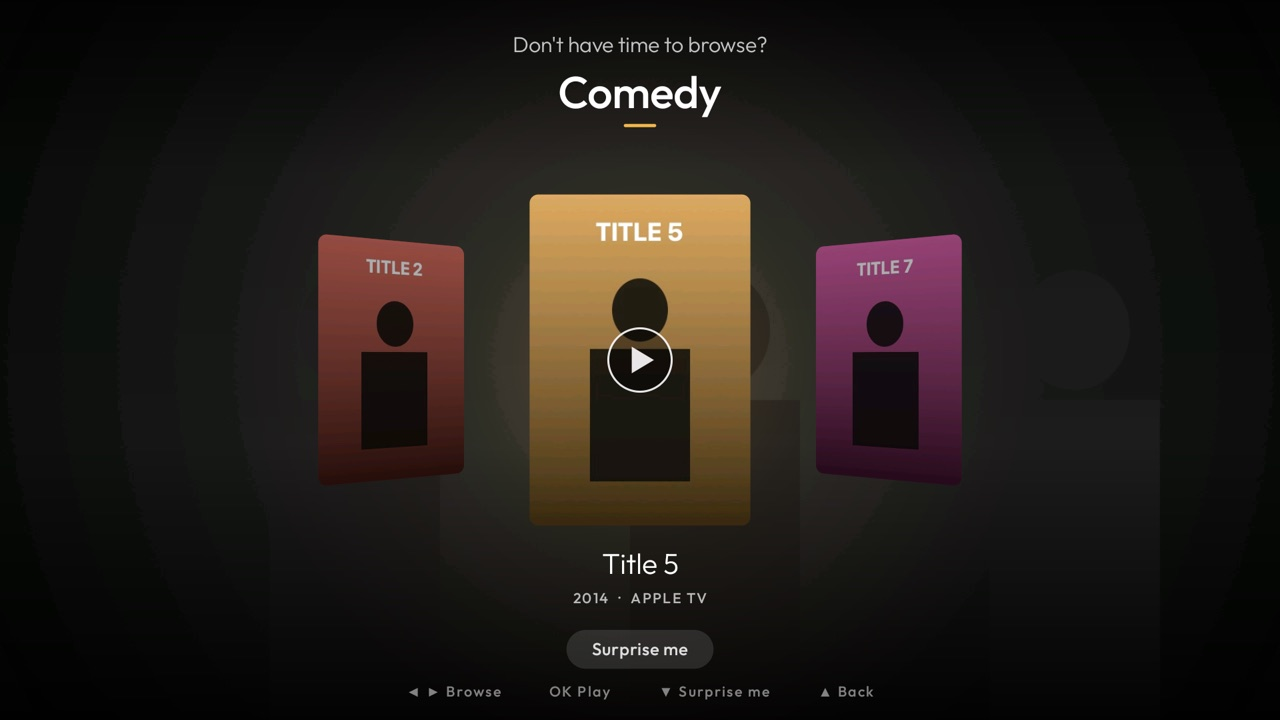
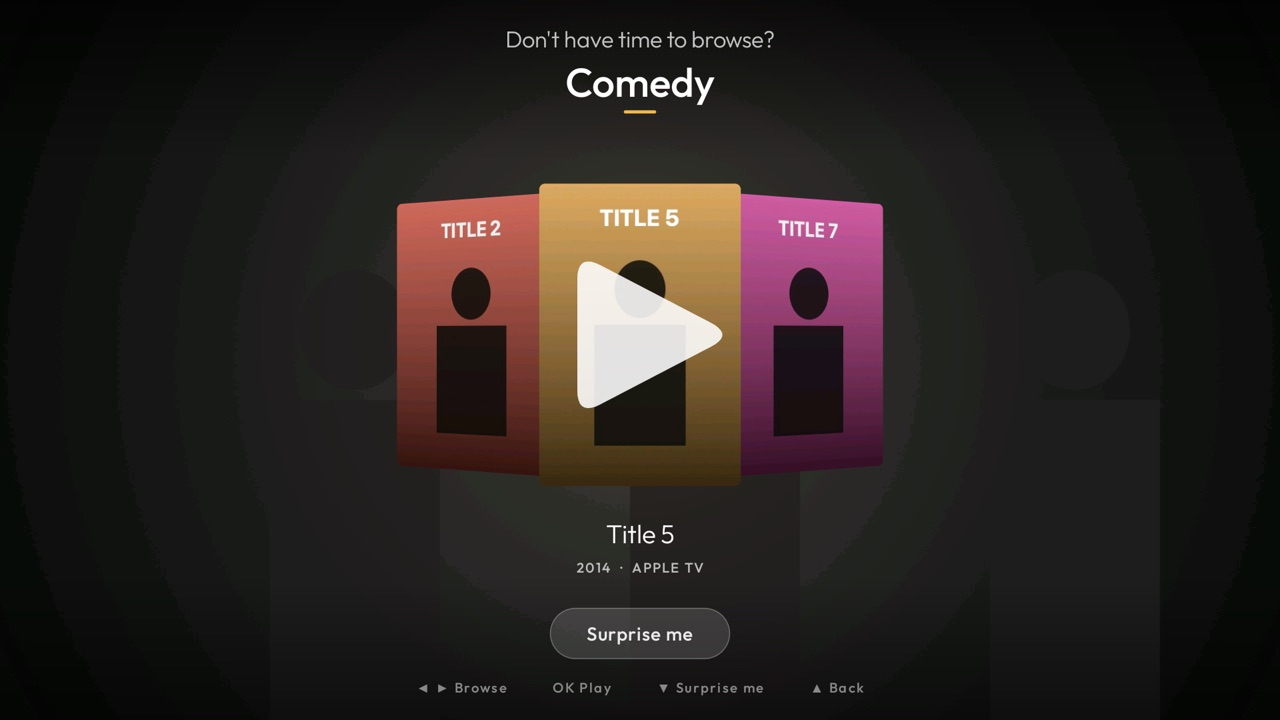
Launcher: mood_posters matches its reference picture: touching posters across the whole screen, turned with their outer edges further away, only the far ones dim, a large solid play triangle, a lighter shade over the backdrop and a bigger Surprise me; 11 posters decoded at most; switch screenshots r

diff --git a/launcher/app/src/main/java/com/gathin/tvhome/MoodShelfView.java b/launcher/app/src/main/java/com/gathin/tvhome/MoodShelfView.java
@@ -12,6 +12,7 @@ import android.graphics.BitmapShader;
 import android.graphics.Camera;
 import android.graphics.Canvas;
 import android.graphics.Color;
+import android.graphics.CornerPathEffect;
 import android.graphics.LinearGradient;
 import android.graphics.Matrix;
 import android.graphics.Paint;
@@ -41,9 +42,9 @@ import java.util.Map;
 import java.util.Set;
 
 /**
- * mood_posters: a mood's posters in a row, opened from its card on the mood deck. The centre poster is the biggest,
- * with a play icon; its neighbours are smaller and turned slightly towards it, and the ones further out fade at the
- * screen's edges. Behind, the centre title's darkened black-and-white backdrop. The row moves on slowly by itself until
+ * mood_posters: a mood's posters in a row across the whole screen, opened from its card on the mood deck. The centre
+ * poster is the biggest, with a play icon; the others touch, each smaller and darker than the last, turned so their
+ * outer edges are further away, and the outermost fade at the screen's edges. Behind, the centre title's darkened black-and-white backdrop. The row moves on slowly by itself until
  * a key is pressed. Left and Right browse, OK opens the centre title, Down goes to "Surprise me" (the deck's reel and
  * countdown), Up or Back go back to the cards. With mood_watched, holding OK on the centre poster offers "I've watched
  * it". Only the posters on screen and one more each way are decoded, and at most the two backdrops of a crossfade.
@@ -61,7 +62,9 @@ final class MoodShelfView extends View {
     }
 
     private static final long BACKDROP_MS = 450, RING_DELAY_MS = 350, FOCUS_MS = 180;
-    private static final float TILT_DEGREES = 24f;
+    private static final float TILT_DEGREES = 32f;
+    /** The play triangle's height against the centre poster's, as in the reference picture. */
+    private static final float PLAY_SHARE = 0.54f;
 
     private final List<MoodDeck.Title> titles;
     private final Listener listener;
@@ -76,7 +79,6 @@ final class MoodShelfView extends View {
     private final Paint backdropPaint = new Paint(Paint.FILTER_BITMAP_FLAG);
     private final Paint shadePaint = new Paint();
     private final Paint glowPaint = new Paint();
-    private final Paint iconPaint = new Paint(Paint.ANTI_ALIAS_FLAG);
     private final Paint buttonPaint = new Paint(Paint.ANTI_ALIAS_FLAG);
     private final Paint ringPaint = new Paint(Paint.ANTI_ALIAS_FLAG);
     private final Paint menuPaint = new Paint(Paint.ANTI_ALIAS_FLAG);
@@ -87,6 +89,7 @@ final class MoodShelfView extends View {
     private final TextPaint buttonText = new TextPaint(Paint.ANTI_ALIAS_FLAG);
     private final RectF rect = new RectF();
     private final Path triangle = new Path();
+    private final Paint playPaint = new Paint(Paint.ANTI_ALIAS_FLAG);
     private final Matrix shaderMatrix = new Matrix(), tilt = new Matrix();
     private final Camera camera = new Camera();
     private final Map<Bitmap, BitmapShader> posterShaders = new HashMap<>();
@@ -130,7 +133,7 @@ final class MoodShelfView extends View {
     private int glowColor;
 
     // Geometry, from the view's height (a 1080-line screen is the reference).
-    private float rowY, ph, pw, near, far, iconR;
+    private float rowY, ph, pw, playH;
 
     MoodShelfView(Context context, List<MoodDeck.Title> titles, String heading, Typeface lightFont, Typeface mediumFont,
                   long watchedHoldMs, Listener listener) {
@@ -156,7 +159,8 @@ final class MoodShelfView extends View {
         buttonText.setLetterSpacing(0.04f);
         placeholderPaint.setColor(0x1AFFFFFF);
         dimPaint.setColor(Color.BLACK);
-        iconPaint.setStrokeCap(Paint.Cap.ROUND);
+        playPaint.setStyle(Paint.Style.FILL);
+        playPaint.setColor(Color.WHITE);
         ringPaint.setStrokeCap(Paint.Cap.ROUND);
     }
 
@@ -547,20 +551,27 @@ final class MoodShelfView extends View {
     @Override
     protected void onSizeChanged(int w, int h, int oldw, int oldh) {
         super.onSizeChanged(w, h, oldw, oldh);
-        rowY = 0.50f * h;
-        ph = 0.46f * h;
+        rowY = 0.465f * h;
+        ph = 0.42f * h;
         pw = ph * 2f / 3f;
-        near = 0.34f * h;   // centre to a neighbour
-        far = 0.25f * h;    // each poster further out
-        iconR = 0.044f * h;
-        headingPaint.setTextSize(0.030f * h);
-        namePaint.setTextSize(0.062f * h);
-        titlePaint.setTextSize(0.040f * h);
-        smallPaint.setTextSize(0.020f * h);
-        buttonText.setTextSize(0.024f * h);
-        camera.setLocation(0, 0, -12f * density / 2f);
-        shadePaint.setShader(new LinearGradient(0, 0, 0, h, new int[]{0xCC000000, 0x33000000, 0x22000000, 0xE6000000},
-                new float[]{0f, 0.24f, 0.62f, 1f}, Shader.TileMode.CLAMP));
+        headingPaint.setTextSize(0.032f * h);
+        namePaint.setTextSize(0.056f * h);
+        titlePaint.setTextSize(0.036f * h);
+        smallPaint.setTextSize(0.019f * h);
+        buttonText.setTextSize(0.026f * h);
+        // Further from the screen than the default, so a turned poster's far edge is only a little shorter.
+        camera.setLocation(0, 0, -24f * h / 1080f);
+        shadePaint.setShader(new LinearGradient(0, 0, 0, h, new int[]{0xB3000000, 0x14000000, 0x14000000, 0x8C000000},
+                new float[]{0f, 0.22f, 0.80f, 1f}, Shader.TileMode.CLAMP));
+        // A solid rounded triangle, standing on its centre.
+        playH = PLAY_SHARE * ph;
+        float half = playH / 2f, wide = playH * 0.96f;
+        triangle.reset();
+        triangle.moveTo(-wide * 0.40f, -half);
+        triangle.lineTo(wide * 0.60f, 0f);
+        triangle.lineTo(-wide * 0.40f, half);
+        triangle.close();
+        playPaint.setPathEffect(new CornerPathEffect(0.16f * playH));
         glowPaint.setShader(null);
     }
 
@@ -576,23 +587,23 @@ final class MoodShelfView extends View {
         if (glowPaint.getShader() == null || glowColor != mood.color) {
             glowColor = mood.color;
             glowPaint.setShader(new RadialGradient(w / 2f, rowY, 0.55f * h,
-                    new int[]{withAlpha(mood.color, 0x30), withAlpha(mood.color, 0x0C), withAlpha(mood.color, 0)},
+                    new int[]{withAlpha(mood.color, 0x1C), withAlpha(mood.color, 0x08), withAlpha(mood.color, 0)},
                     new float[]{0f, 0.45f, 1f}, Shader.TileMode.CLAMP));
         }
         canvas.drawRect(0, 0, w, h, glowPaint);
 
         if (!heading.isEmpty()) {
             headingPaint.setAlpha(0xC0);
-            canvas.drawText(heading, (w - headingPaint.measureText(heading)) / 2f, 0.072f * h, headingPaint);
+            canvas.drawText(heading, (w - headingPaint.measureText(heading)) / 2f, 0.066f * h, headingPaint);
         }
         String name = TextUtils.ellipsize(mood.name, namePaint, w * 0.8f, TextUtils.TruncateAt.END).toString();
         namePaint.setAlpha(0xFF);
         float nw = namePaint.measureText(name);
-        canvas.drawText(name, (w - nw) / 2f, 0.150f * h, namePaint);
+        canvas.drawText(name, (w - nw) / 2f, 0.134f * h, namePaint);
         buttonPaint.setStyle(Paint.Style.FILL);
         buttonPaint.setColor(mood.color);
         float bar = 0.045f * h;
-        rect.set((w - bar) / 2f, 0.172f * h, (w + bar) / 2f, 0.172f * h + 0.0045f * h);
+        rect.set((w - bar) / 2f, 0.153f * h, (w + bar) / 2f, 0.153f * h + 0.0045f * h);
         canvas.drawRoundRect(rect, rect.height(), rect.height(), buttonPaint);
 
         drawRow(canvas, w, h);
@@ -624,14 +635,15 @@ final class MoodShelfView extends View {
 
     private void drawPoster(Canvas canvas, int item, float d, int w, int h) {
         float a = Math.abs(d);
-        float near1 = Math.min(1f, a), beyond = Math.max(0f, Math.min(1f, a - 1f));
-        float scale = 1f - 0.28f * near1 - 0.12f * beyond;
-        float x = w / 2f + Math.signum(d) * (near * near1 + far * Math.max(0f, a - 1f));
-        // Fading out past the second poster each side, at the screen's edges.
+        float near1 = Math.min(1f, a);
+        float scale = MoodShelf.scale(a);
+        float x = w / 2f + Math.signum(d) * MoodShelf.place(a) * h;
+        // Fading out past the last poster each side, at the screen's edges.
         float fade = Math.max(0f, Math.min(1f, MoodShelf.SIDE + 1f - a));
         int alpha = Math.round(255 * fade);
         if (alpha <= 0) return;
-        float degrees = -Math.signum(d) * TILT_DEGREES * near1;
+        // Turned so its outer edge is further away: the row curves back from the centre.
+        float degrees = Math.signum(d) * TILT_DEGREES * near1;
         canvas.save();
         canvas.translate(x, rowY);
         if (degrees != 0f) {
@@ -643,7 +655,7 @@ final class MoodShelfView extends View {
         }
         float hw = pw * scale / 2f, hh = ph * scale / 2f;
         rect.set(-hw, -hh, hw, hh);
-        float rr = 0.012f * h;
+        float rr = 0.008f * h;
         Bitmap b = posters.get(items.get(item));
         if (b == null) {
             placeholderPaint.setAlpha(Math.round(0x1A * fade));
@@ -661,45 +673,28 @@ final class MoodShelfView extends View {
             posterPaint.setAlpha(alpha);
             canvas.drawRoundRect(rect, rr, rr, posterPaint);
         }
-        // The neighbours sit a little darker; the centre one is untouched.
-        float dim = 0.32f * near1 + 0.22f * beyond;
+        // Each poster out is a little darker; the centre one is untouched.
+        float dim = MoodShelf.dim(a);
         if (dim > 0f) {
             dimPaint.setAlpha(Math.round(255 * dim * fade));
             canvas.drawRoundRect(rect, rr, rr, dimPaint);
         }
         // The play icon on the centre poster (fading as it moves away).
         float icon = Math.max(0f, 1f - a * 2f) * (1f - buttonFocus * 0.6f);
-        if (icon > 0f) drawPlay(canvas, icon, h);
+        if (icon > 0f) {
+            playPaint.setAlpha(Math.round(0xE0 * icon));
+            canvas.drawPath(triangle, playPaint);
+        }
         if (holdShown && a < 0.01f) drawRing(canvas);
         canvas.restore();
     }
 
-    private void drawPlay(Canvas canvas, float alpha, int h) {
-        iconPaint.setStyle(Paint.Style.FILL);
-        iconPaint.setColor(Color.BLACK);
-        iconPaint.setAlpha(Math.round(0x73 * alpha));
-        canvas.drawCircle(0, 0, iconR, iconPaint);
-        iconPaint.setStyle(Paint.Style.STROKE);
-        iconPaint.setStrokeWidth(Math.max(2f, 0.0028f * h));
-        iconPaint.setColor(Color.WHITE);
-        iconPaint.setAlpha(Math.round(0xE6 * alpha));
-        canvas.drawCircle(0, 0, iconR, iconPaint);
-        float t = iconR * 0.42f;
-        triangle.reset();
-        triangle.moveTo(-t * 0.62f, -t);
-        triangle.lineTo(t * 1.05f, 0);
-        triangle.lineTo(-t * 0.62f, t);
-        triangle.close();
-        iconPaint.setStyle(Paint.Style.FILL);
-        canvas.drawPath(triangle, iconPaint);
-    }
-
     /** The ring around the play icon while OK is held. */
     private void drawRing(Canvas canvas) {
-        float r = iconR + 9 * density, stroke = 5 * density;
+        float r = playH * 0.66f, stroke = 6 * density;
         ringPaint.setStyle(Paint.Style.STROKE);
         ringPaint.setStrokeWidth(stroke);
-        ringPaint.setColor(0x4DFFFFFF);
+        ringPaint.setColor(0x8C000000);
         canvas.drawCircle(0, 0, r, ringPaint);
         ringPaint.setColor(Color.WHITE);
         rect.set(-r, -r, r, r);
@@ -714,25 +709,29 @@ final class MoodShelfView extends View {
             int a = Math.round(255 * settle);
             String title = TextUtils.ellipsize(t.title, titlePaint, w * 0.7f, TextUtils.TruncateAt.END).toString();
             titlePaint.setAlpha(a);
-            canvas.drawText(title, (w - titlePaint.measureText(title)) / 2f, 0.797f * h, titlePaint);
+            canvas.drawText(title, (w - titlePaint.measureText(title)) / 2f, 0.755f * h, titlePaint);
             String meta = t.year.isEmpty() ? t.appName.toUpperCase(Locale.ROOT)
                     : t.appName.isEmpty() ? t.year : t.year + "  ·  " + t.appName.toUpperCase(Locale.ROOT);
             smallPaint.setAlpha(Math.round(a * 0.7f));
-            canvas.drawText(meta, (w - smallPaint.measureText(meta)) / 2f, 0.838f * h, smallPaint);
+            canvas.drawText(meta, (w - smallPaint.measureText(meta)) / 2f, 0.795f * h, smallPaint);
         }
         // "Surprise me": an outline at rest, white when Down moved the focus to it.
         String label = getResources().getString(R.string.shelf_surprise);
-        float tw = buttonText.measureText(label), bh = 0.054f * h, bw = tw + 0.07f * h, by = 0.902f * h;
+        float tw = buttonText.measureText(label), bh = 0.070f * h, bw = tw + 0.10f * h, by = 0.880f * h;
         rect.set((w - bw) / 2f, by - bh / 2f, (w + bw) / 2f, by + bh / 2f);
         buttonPaint.setStyle(Paint.Style.FILL);
         buttonPaint.setColor(Color.WHITE);
-        buttonPaint.setAlpha(Math.round(0x1F + (0xFF - 0x1F) * buttonFocus));
+        buttonPaint.setAlpha(Math.round(0x24 + (0xFF - 0x24) * buttonFocus));
         canvas.drawRoundRect(rect, bh / 2f, bh / 2f, buttonPaint);
-        buttonText.setColor((int) argb.evaluate(buttonFocus, 0xD9FFFFFF, 0xFF0C0C0E));
+        buttonPaint.setStyle(Paint.Style.STROKE);
+        buttonPaint.setStrokeWidth(Math.max(1f, 0.0014f * h));
+        buttonPaint.setAlpha(0x4D);
+        canvas.drawRoundRect(rect, bh / 2f, bh / 2f, buttonPaint);
+        buttonText.setColor((int) argb.evaluate(buttonFocus, 0xE6FFFFFF, 0xFF0C0C0E));
         canvas.drawText(label, (w - tw) / 2f, by + buttonText.getTextSize() * 0.36f, buttonText);
         String keys = getResources().getString(onButton ? R.string.shelf_keys_button : R.string.shelf_keys);
         smallPaint.setAlpha(0x80);
-        canvas.drawText(keys, (w - smallPaint.measureText(keys)) / 2f, 0.968f * h, smallPaint);
+        canvas.drawText(keys, (w - smallPaint.measureText(keys)) / 2f, 0.962f * h, smallPaint);
     }
 
     /** "I've watched it" over "Cancel", in a small dark panel on the centre poster; the chosen line is white. */

diff --git a/launcher/app/src/main/java/com/gathin/tvhome/MoodShelf.java b/launcher/app/src/main/java/com/gathin/tvhome/MoodShelf.java
@@ -9,14 +9,22 @@ import java.util.Set;
  * it can be tested without a TV.
  */
 final class MoodShelf {
-    /** Posters drawn on each side of the centre one (the outer ones partly off screen). */
-    static final int SIDE = 2;
+    /** Posters drawn on each side of the centre one: the row fills the screen, the outer ones at its edges. */
+    static final int SIDE = 4;
     /** Kept decoded beyond those: the next one each way, so a move never shows an empty frame. */
     static final int AHEAD = 1;
     /** From this many posters the row goes round (fewer would show the same poster twice on screen). */
     static final int ROUND_FROM = 2 * SIDE + 2;
     /** Moving on by itself: a rest, then a slow glide to the next poster. */
     static final long REST_MS = 2600, GLIDE_MS = 1100, MOVE_MS = 320;
+    /**
+     * Where a poster sits and how it looks by how far it is from the centre (0 the centre, 1 its neighbour, ...), as in
+     * the reference picture: the posters touch, each drawn under the one nearer the centre. Across, in shares of the
+     * screen's height from its middle; size against the centre poster; how much darker it is.
+     */
+    private static final float[] PLACE = {0f, 0.235f, 0.425f, 0.60f, 0.76f, 0.905f};
+    private static final float[] SCALE = {1f, 0.90f, 0.78f, 0.70f, 0.64f, 0.60f};
+    private static final float[] DIM = {0f, 0.06f, 0.12f, 0.26f, 0.42f, 0.60f};
 
     private MoodShelf() {}
 
@@ -52,6 +60,25 @@ final class MoodShelf {
             while (d < -count / 2f) d += count;
         }
         return d;
+    }
+
+    static float place(float distance) {
+        return along(PLACE, distance);
+    }
+
+    static float scale(float distance) {
+        return along(SCALE, distance);
+    }
+
+    static float dim(float distance) {
+        return along(DIM, distance);
+    }
+
+    /** The table's value at a distance between its steps; past its end, its last value. */
+    private static float along(float[] table, float distance) {
+        float at = Math.max(0f, Math.min(table.length - 1f, distance));
+        int i = Math.min(table.length - 2, (int) at);
+        return table[i] + (table[i + 1] - table[i]) * (at - i);
     }
 
     /** The posters to hold decoded around the centre: those on screen and one more each way. */

diff --git a/launcher/app/src/test/java/com/gathin/tvhome/MoodShelfTest.java b/launcher/app/src/test/java/com/gathin/tvhome/MoodShelfTest.java
@@ -44,10 +44,26 @@ public class MoodShelfTest {
     @Test
     public void onlyThePostersOnScreenAndOneMoreEachWayAreKept() {
         Set<Integer> want = MoodShelf.wanted(0, 20);
-        assertEquals(new HashSet<>(Arrays.asList(0, 1, 2, 3, 19, 18, 17)), want);
+        assertEquals(new HashSet<>(Arrays.asList(0, 1, 2, 3, 4, 5, 19, 18, 17, 16, 15)), want);
         assertEquals(2 * (MoodShelf.SIDE + MoodShelf.AHEAD) + 1, want.size());
         assertEquals(new HashSet<>(Arrays.asList(0, 1, 2)), MoodShelf.wanted(0, 3));
         assertTrue(MoodShelf.wanted(-1, 5).isEmpty());
+    }
+
+    @Test
+    public void postersGetSmallerAndDarkerAwayFromTheCentreAndTouch() {
+        assertEquals(1f, MoodShelf.scale(0f), 0f);
+        assertEquals(0f, MoodShelf.dim(0f), 0f);
+        assertEquals(0f, MoodShelf.place(0f), 0f);
+        float halfWidth = 0.14f;   // the centre poster's, in shares of the screen's height
+        for (float d = 0f; d < MoodShelf.SIDE; d += 1f) {
+            assertTrue(MoodShelf.scale(d + 1f) < MoodShelf.scale(d));
+            assertTrue(MoodShelf.dim(d + 1f) > MoodShelf.dim(d));
+            float gap = MoodShelf.place(d + 1f) - MoodShelf.place(d);
+            assertTrue("no gap between posters, turned and all", gap < halfWidth * (MoodShelf.scale(d) + MoodShelf.scale(d + 1f)));
+        }
+        assertEquals("halfway between two", (MoodShelf.scale(1f) + MoodShelf.scale(2f)) / 2f, MoodShelf.scale(1.5f), 0.0001f);
+        assertEquals("past the end, the last value", MoodShelf.scale(5f), MoodShelf.scale(9f), 0f);
     }
 
     @Test

diff --git a/themes/README.md b/themes/README.md
@@ -141,9 +141,9 @@ A new key needs one there in the same pull request.
 | `mood_deck_moods` | list | The cards, top first, written by a tool such as TV Studio: `name`, `color` and `titles` (the `key`s of the titles in it). A mood with no titles left is hidden |
 | `mood_deck_titles` | list | What the reel can land on: `key`, `title`, `poster` (a 2:3 JPEG such as `moods/<key>-poster.jpg`, about 400×600), `backdrop` (a dark black-and-white picture, about 960×540), `package`, `uri` (the link it opens), optional `year` (shown under the posters row), `component`, `flags` and `extras` (as in `watchlist_items`), and `app`. A title without its poster or link is left out |
 | `mood_deck_heading` | text | The line above the cards, such as `"Don't have time to browse?"` (none by default) |
-| `mood_posters` | true/false | Mood posters (off by default): Right or OK on a mood card opens a row of that mood's posters instead of spinning. The centre poster is the biggest, with a play icon; its neighbours are smaller and turned slightly towards it, the ones further out fading at the screen's edges, over the centre title's darkened black-and-white backdrop, with the heading and the mood's name above. The row moves on slowly by itself until a key is pressed. Left and Right browse, OK opens the centre title in its app, Down goes to "Surprise me" (the deck's reel and countdown for that mood), Up or Back return to the cards. Only the posters on screen and one more each way are decoded. Needs `mood_deck` |
+| `mood_posters` | true/false | Mood posters (off by default): Right or OK on a mood card opens a row of that mood's posters instead of spinning. The posters fill the screen and touch: the centre one is the biggest, with a large play triangle, each one further out smaller, a little darker and turned so its outer edge is further away, over the centre title's darkened black-and-white backdrop, with the heading and the mood's name above. The row moves on slowly by itself until a key is pressed. Left and Right browse, OK opens the centre title in its app, Down goes to "Surprise me" (the deck's reel and countdown for that mood), Up or Back return to the cards. Only the posters on screen and one more each way are decoded, 11 at most. A row of 10 or more goes round; a shorter one stops at its ends. Needs `mood_deck` |
 | `mood_posters_heading` | text | The line above the mood's name on the posters row, such as `"Don't have time to browse?"` (the deck's `mood_deck_heading` when empty) |
-| `mood_watched` | true/false | "I've watched it" (off by default): holding OK on the centre poster for `watchlist_remove_hold` seconds fills a ring around the play icon, then a small menu offers "I've watched it" or "Cancel". The title is hidden at once from every mood (and from the watchlist) and listed in `watchlist_removed.json`, as `watchlist_remove` does, for a tool such as TV Studio to take off the list or keep as watched. Needs `mood_posters` |
+| `mood_watched` | true/false | "I've watched it" (off by default): holding OK on the centre poster for `watchlist_remove_hold` seconds fills a ring around the play triangle, then a small menu on the poster offers "I've watched it" or "Cancel". The title is hidden at once from every mood (and from the watchlist) and listed in `watchlist_removed.json`, as `watchlist_remove` does, for a tool such as TV Studio to take off the list or keep as watched. Needs `mood_posters` |
 | `cinematic_home` | bool | Cinematic top shelf: the focused dock app's artwork, softened, fills the top of the screen in its colour, with a larger name, "Last opened" (apps opened from Home), dock position dots, a focus glow in the app's colour and a translucent dock band; off by default |
 | `cinematic_dots` | bool | With `cinematic_home`, the dock position dots under the app's name (`true` by default); `false` leaves them out |
 | `cinematic_white_focus` | bool | With `cinematic_home`, the focus highlight stays white on the dock instead of taking the focused app's colour (`false` by default); `app_glow` still colours every tile |

diff --git a/docs/switches.md b/docs/switches.md
@@ -64,6 +64,6 @@ the rules. Keys from before this rule are on its wanted list; a screenshot for o
 | `mood_deck_moods` | <img src="switches/mood_deck_moods.jpg" width="320" alt="mood_deck_moods on the preview emulator (stand-in posters): Left throws the Comedy card off to the left, tilted and fading, as the Sci-fi card comes up"> |
 | `mood_deck_titles` | <img src="switches/mood_deck_titles.jpg" width="320" alt="mood_deck_titles on the preview emulator (stand-in posters): the reel has landed on Title 6, with Opening in 3 and a bar in the mood's colour"> |
 | `mood_deck_heading` | <img src="switches/mood_deck.jpg" width="320" alt="mood_deck_heading: Don't have time to browse? above the cards"> |
-| `mood_posters` | <img src="switches/mood_posters.jpg" width="320" alt="mood_posters on the preview emulator, drawn with stand-in posters (no film artwork): a row of posters over a dark backdrop, the centre one bigger with a play icon, its neighbours smaller and angled, the mood's name above and a Surprise me button below"> |
+| `mood_posters` | <img src="switches/mood_posters.jpg" width="320" alt="mood_posters on the preview emulator, drawn with stand-in posters (no film artwork): a row of touching posters across the screen over a dark backdrop, the centre one biggest with a large play triangle, the others smaller and angled, the mood's name above and a Surprise me button below"> |
 | `mood_posters_heading` | <img src="switches/mood_posters_heading.jpg" width="320" alt="mood_posters_heading on the preview emulator (stand-in posters): Don't have time to browse? above the mood's name on a short row of three posters"> |
 | `mood_watched` | <img src="switches/mood_watched.jpg" width="320" alt="mood_watched on the preview emulator (stand-in posters): after OK was held, the scene dims and a small dark menu on the centre poster offers I've watched it, chosen in white, and Cancel"> |
